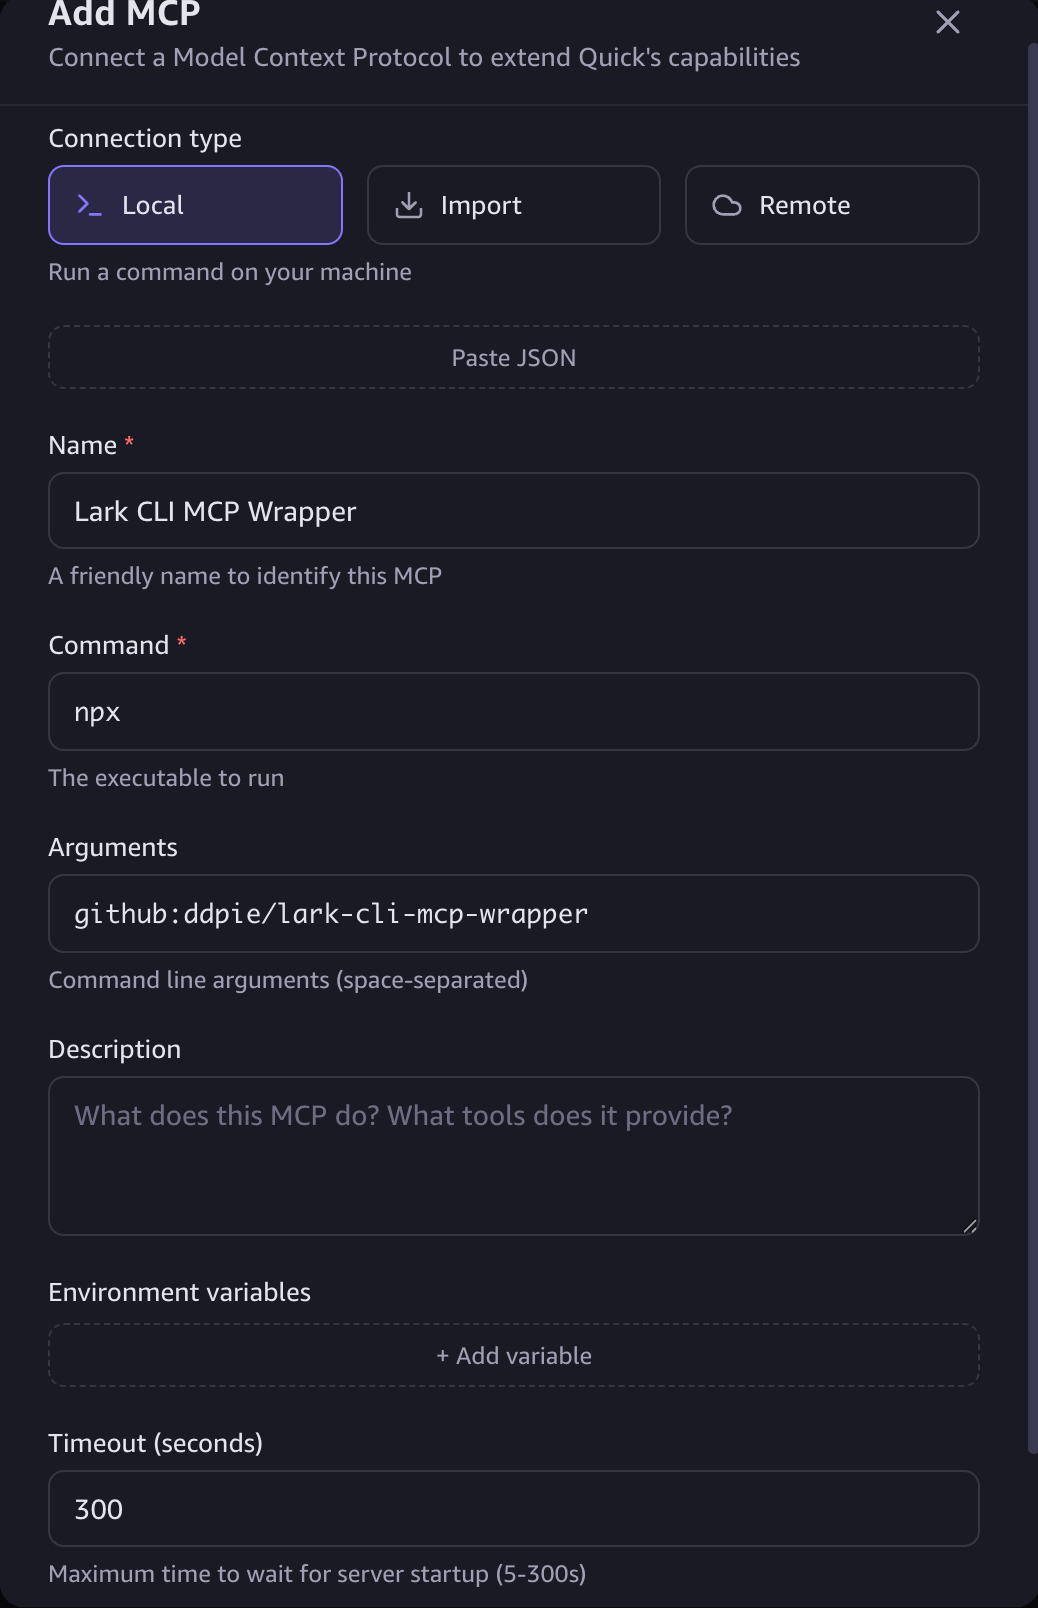
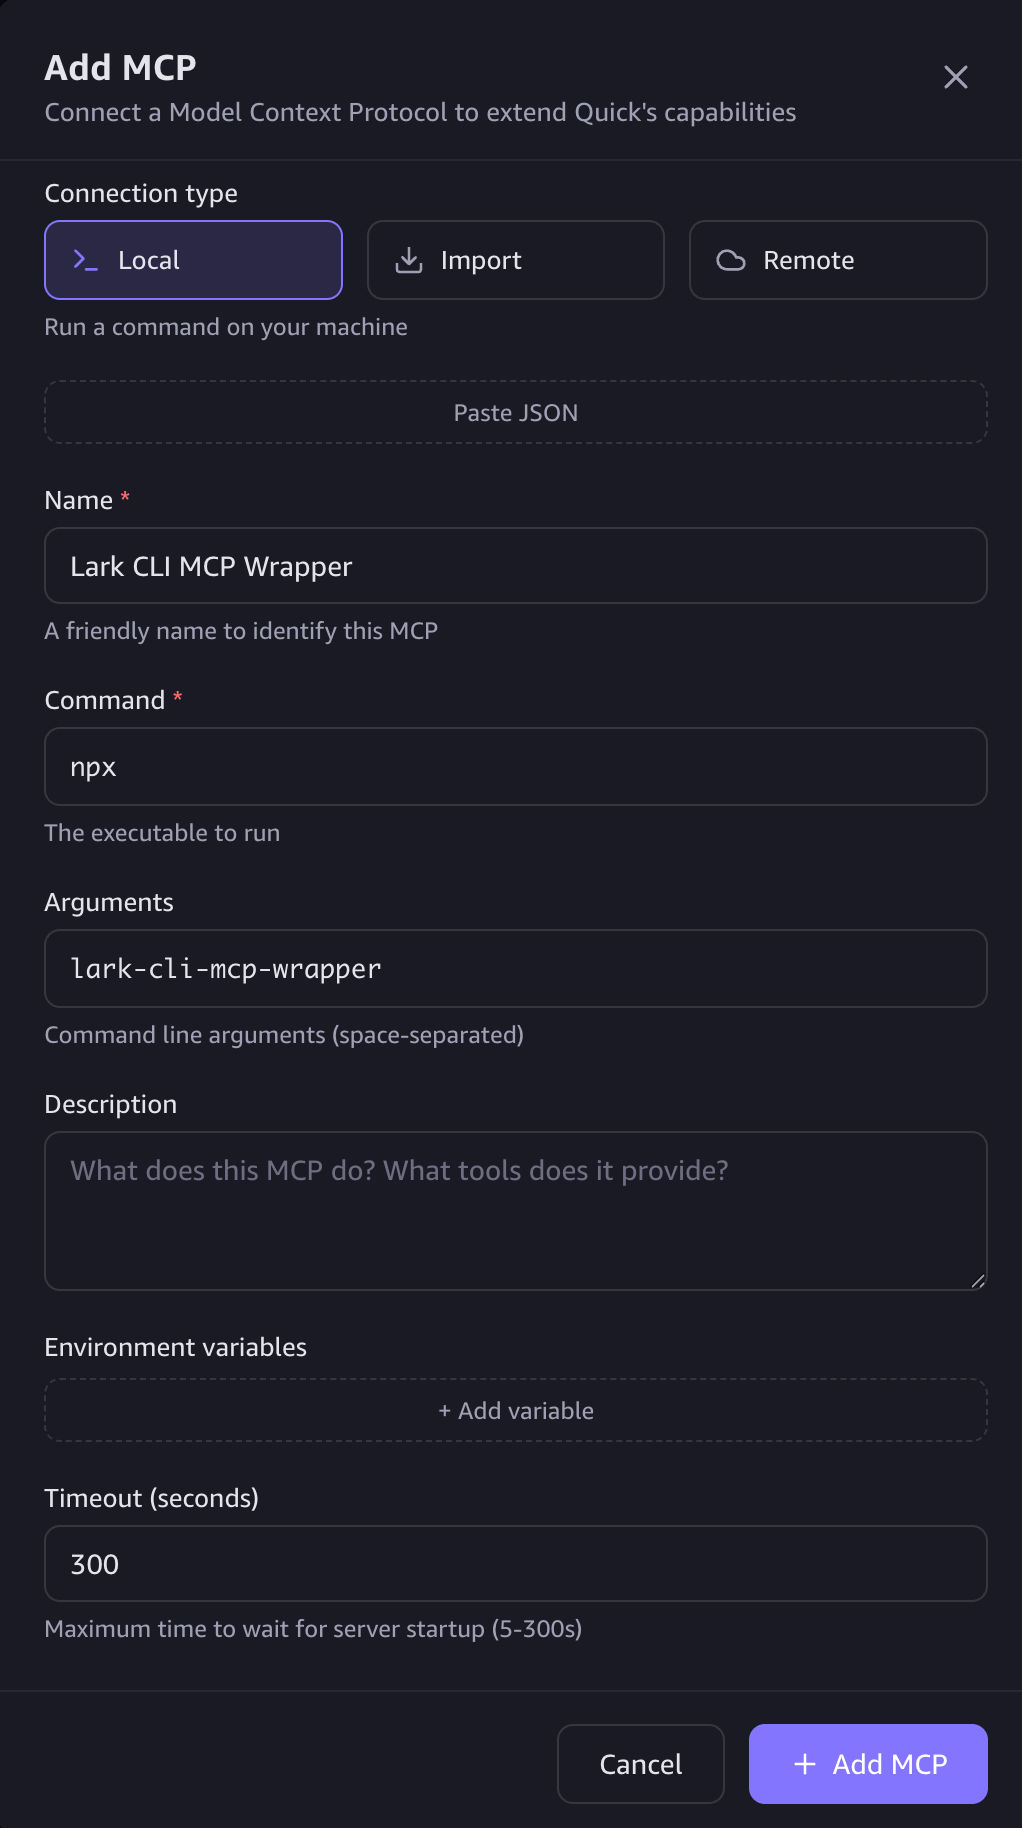
docs: npx 改为 npm 包名（不再依赖 GitHub 访问）

diff --git a/README.md b/README.md
@@ -86,7 +86,7 @@ Settings → Capabilities → MCP → **+ Add MCP**：
 | Connection type | Local |
 | Name | Lark CLI MCP Wrapper |
 | Command | `npx` |
-| Arguments | `github:ddpie/lark-cli-mcp-wrapper` |
+| Arguments | `lark-cli-mcp-wrapper` |
 | Timeout | `300` |
 
 > `npx github:user/repo` 会自动从 GitHub 拉取仓库并运行，无需手动 clone。首次启动需拉取和编译，Timeout 建议设为 300。
@@ -190,7 +190,7 @@ Settings → Capabilities → MCP → **+ Add MCP**：
 ```bash
 lark-cli update
 rm -rf ~/.npm/_npx
-npx github:ddpie/lark-cli-mcp-wrapper
+npx lark-cli-mcp-wrapper
 ```
 
 ## License
